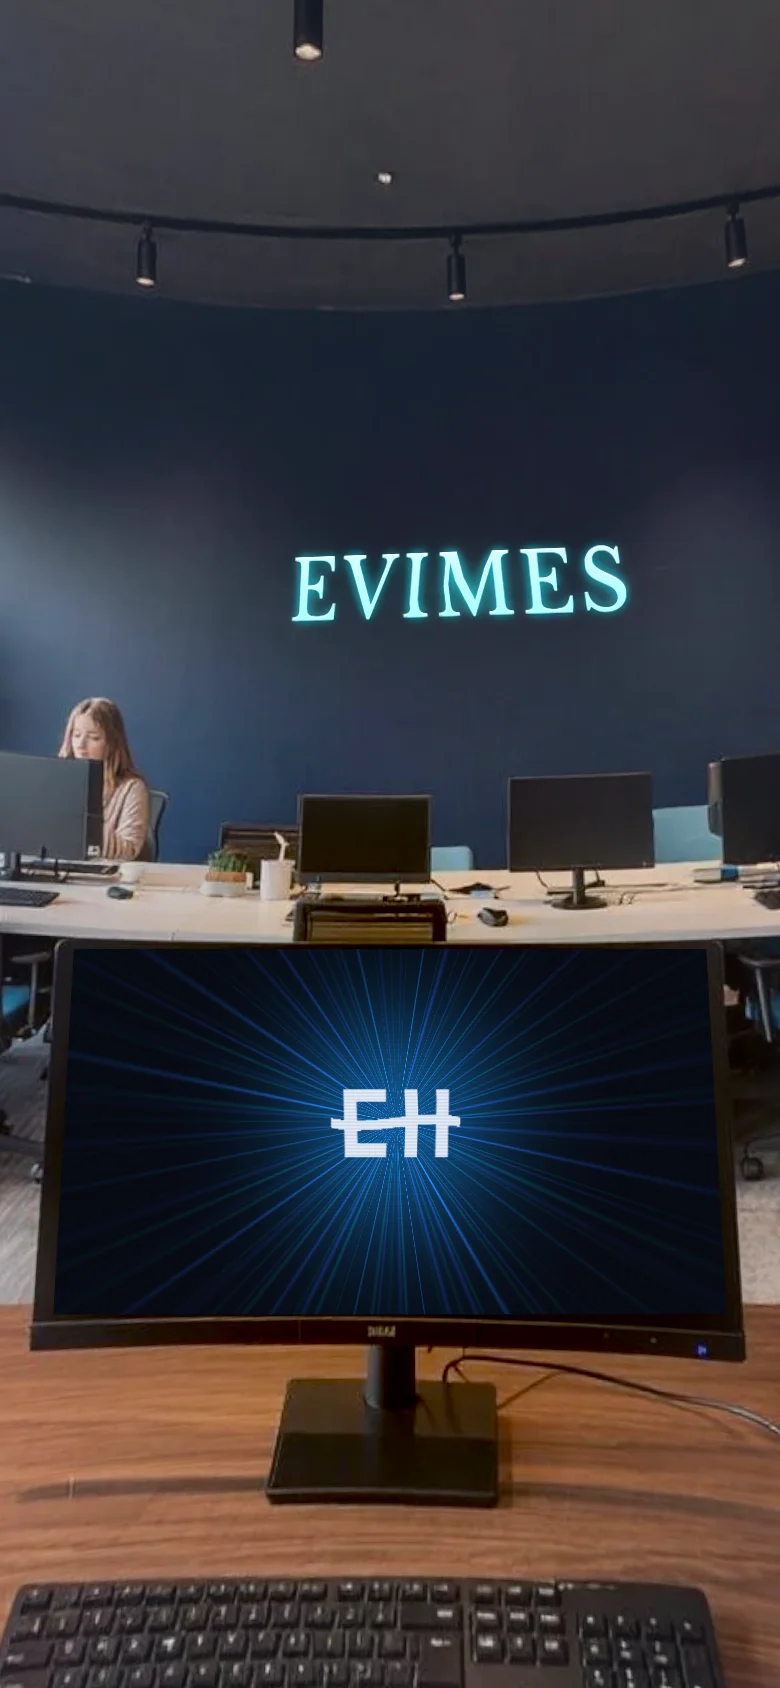
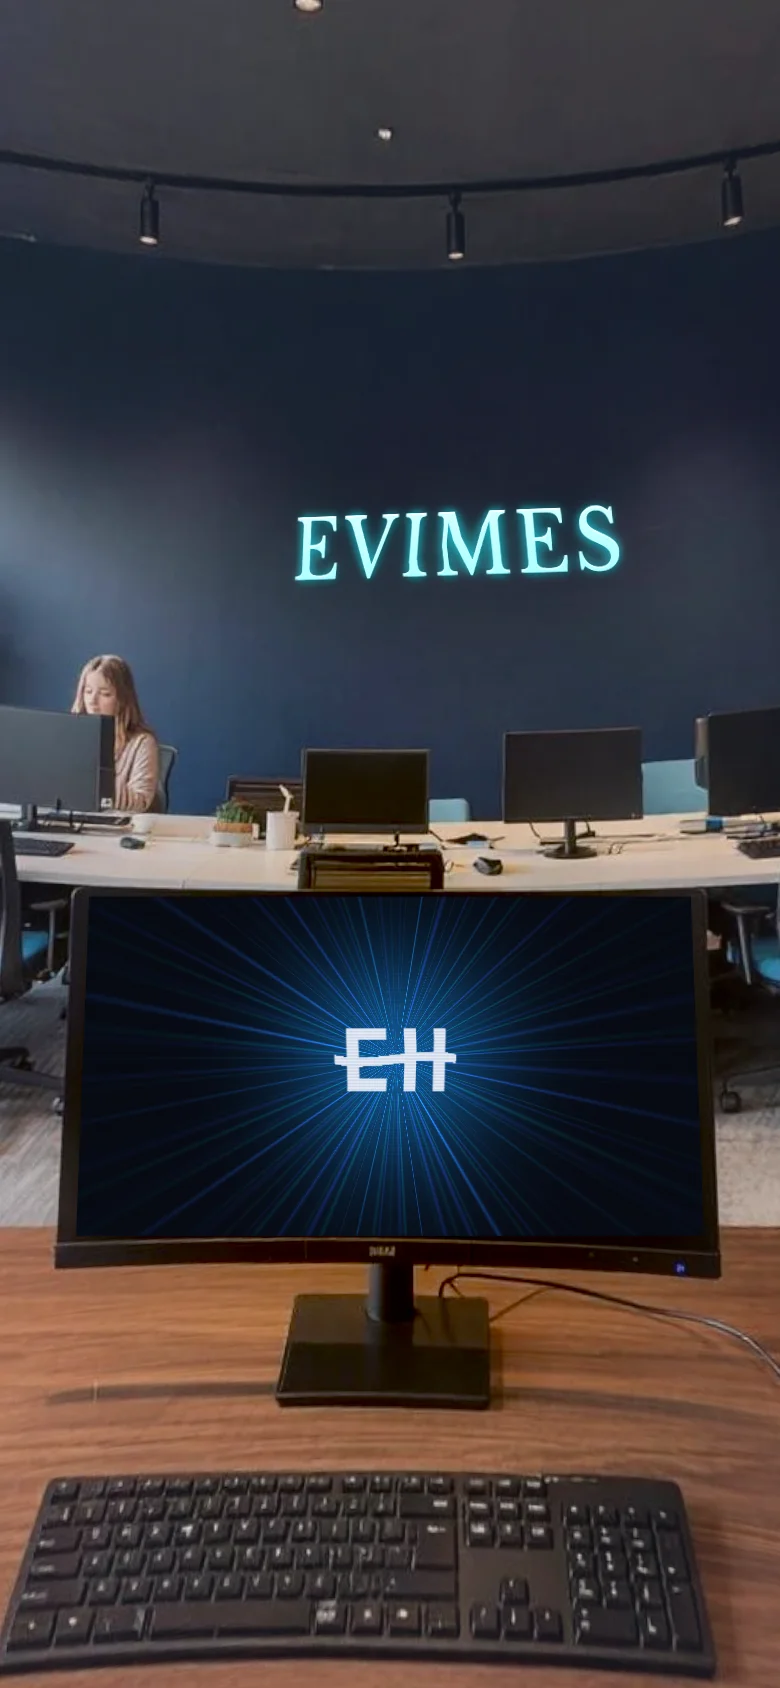
oficina: vista de lejos (mesa, monitor y EVIMES en cuadro)

diff --git a/js/oficina/timeline.js b/js/oficina/timeline.js
@@ -69,10 +69,10 @@ export function crearTimeline(E, K, dom, opts = {}) {
     win.style.setProperty('--edge', String(Math.min(1, ins * 2)));
     // camera path
     let yaw = mix(-6, 2, A), pitch = mix(2, -4, A), fov = mix(90, 76, A);
-    yaw = mix(yaw, monYaw, C); pitch = mix(pitch, monPitch + 4, C); fov = mix(fov, 60, C);
-    const cardPitch = mobile ? monPitch + 16 : monPitch + 11;
-    pitch = mix(pitch, cardPitch, Ec); fov = mix(fov, mobile ? 64 : 56, Ec); yaw = mix(yaw, monYaw, Ec);
-    pitch = mix(pitch, monPitch + 7, X); fov = mix(fov, mobile ? 74 : 64, X);
+    yaw = mix(yaw, monYaw, C); pitch = mix(pitch, monPitch + 6, C); fov = mix(fov, 70, C);   // se queda lejos: la mesa, el monitor y EVIMES siempre en cuadro
+    const cardPitch = mobile ? monPitch + 13 : monPitch + 8;
+    pitch = mix(pitch, cardPitch, Ec); fov = mix(fov, mobile ? 66 : 64, Ec); yaw = mix(yaw, monYaw, Ec);
+    pitch = mix(pitch, monPitch + 7, X); fov = mix(fov, mobile ? 74 : 68, X);
     if (mobile) fov = Math.min(100, fov * 1.3);
     const lookAmt = reduce ? 0 : (1 - C * .6) + Ec * .5;
     yaw += mx * 7 * lookAmt; pitch += my * 3.5 * lookAmt;
@@ -84,7 +84,7 @@ export function crearTimeline(E, K, dom, opts = {}) {
     // EVIMES lights up as the window finishes opening, with two quick flickers
     const ig = seg(P, .12, .18); WU.uOn.value = ig <= 0 ? 0 : ig >= 1 ? 1 : (ig < .25 ? .9 : ig < .4 ? .15 : ig < .55 ? 1 : ig < .65 ? .35 : 1);
     // the card: starts as the screen itself, then lifts up and toward us
-    const cs0 = mW * .94 / CWd, cs1 = (mobile ? mW * .95 : mW * .64) / CWd;
+    const cs0 = mW * .94 / CWd, cs1 = (mobile ? mW * .85 : mW * .6) / CWd;
     const s = mix(cs0, cs1, Ec);
     const endUp = mH * .5 + CHt * cs1 * .52, endZ = mobile ? 1.2 : 1.7;
     card.position.copy(mC).addScaledVector(mU, mix(0, endUp, Ec)).addScaledVector(mN, mix(.02, endZ, Ec) + Math.sin(Ec * Math.PI) * .8);

diff --git a/js/oficina/config.js b/js/oficina/config.js
@@ -30,6 +30,6 @@ export const PROJECT = {
 // Disco, en % de la imagen (16:10 centrado en la caja proyectada de la card en P = 0.76).
 // Se rehacen con ?oficina=captura → window.__oficinaCaptura(.76).
 export const FIJA = {
-  escritorio: { img: 'assets/oficina/oficina-fija.webp', ar: 1920 / 1080, card: {"x":36.99,"y":19.7,"w":24.82,"h":27.58} },
-  movil: { img: 'assets/oficina/oficina-fija-movil.webp', ar: 390 / 844, card: {"x":10.49,"y":31.89,"w":75.97,"h":21.94} }
+  escritorio: { img: 'assets/oficina/oficina-fija.webp', ar: 1920 / 1080, card: {"x":38.38,"y":20.61,"w":22.25,"h":23.25} },
+  movil: { img: 'assets/oficina/oficina-fija-movil.webp', ar: 390 / 844, card: {"x":10.08,"y":31.3,"w":77.09,"h":19.88} }
 };

diff --git a/DECISIONES.md b/DECISIONES.md
@@ -79,3 +79,14 @@ Lo que decidí sin poder preguntar, y por qué. Lo que Oscar tiene que revisar e
 - planes.html: los botones "Empezar" llevan texto oculto (" · plan Fundamento") en vez de aria-label, porque Lighthouse (SEO) los marcaba como enlaces sin texto descriptivo; los ✓ / — de la tabla llevan role="img" (un aria-label en un span sin rol no vale).
 - Home: las palabras apagadas de la frase "Si no eres visible, no existes." pasan de .16 a .45 de opacidad. Con .16 no cumplía AA (Lighthouse lo marcaba); con .45 el blanco y el cian dan al menos 3:1 (texto grande) sobre el fondo oscuro y el encendido palabra a palabra sigue viéndose.
 - Las cifras de Lighthouse van en INFORME.md tal cual salieron (servidor local, Edge headless, sin caché de CDN: en producción pueden cambiar).
+
+---
+
+# Segunda tanda autónoma (páginas propias + GitHub Pages)
+
+## Bloque 1 · Oficina vista de lejos (`v-oficina-lejos`)
+- Valores copiados del prototipo `Downloads/evimes-oficina/index.html` (versión del 17-11, 15:28) en `js/oficina/timeline.js`: hacia el monitor pitch monPitch+6 y fov 70; card fuera: pitch monPitch+8 / +13 (móvil) y fov 64 / 66; cierre fov 68 (74 en móvil, como el prototipo).
+- Tamaño final de la card: mW·0,6 en escritorio, como pide el prompt. El prototipo pone mW·0,5; me quedo con el 0,6 del prompt porque es el valor que se pidió de forma explícita, y con 0,6 los indicadores siguen cabiendo a los lados. En móvil mW·0,85 (prompt y prototipo coinciden).
+- Indicadores: el mismo cálculo del prototipo (a los lados, tamaño = 42 % del alto de la card, mínimo 70 px). En escritorio no tapan ni el monitor ni el texto de Disco (capturas 0.2 / 0.45 / 0.6 / 0.75).
+- **A revisar en móvil:** con estos valores (los del prototipo) la card tapa EVIMES en 0.6–0.75, y la fila de indicadores y el texto de Disco quedan encima de la mitad baja del monitor. El monitor está en cuadro, pero no se ve limpio. No lo he cambiado porque el prompt pide copiar los valores tal cual; si se quiere, la palanca es `cardPitch` en móvil (monPitch+13) y el tamaño de la card (mW·0,85).
+- Versión fija rehecha con la nueva cámara (`assets/oficina/oficina-fija*.webp` y `FIJA` en `js/oficina/config.js`).
